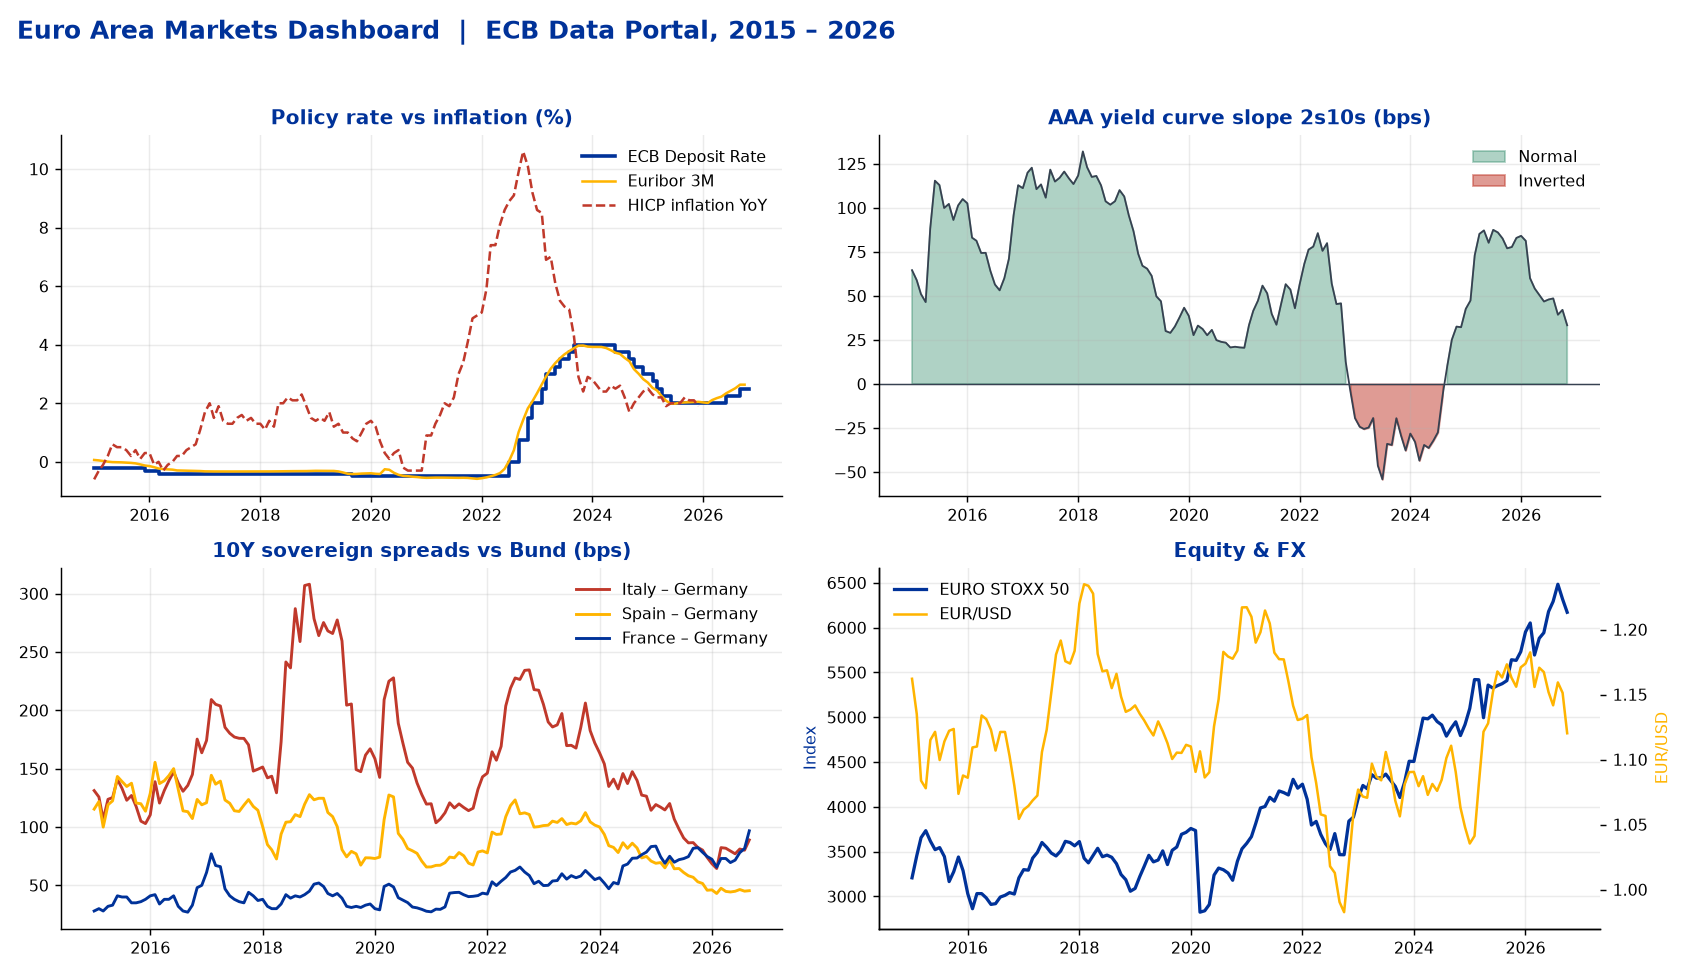
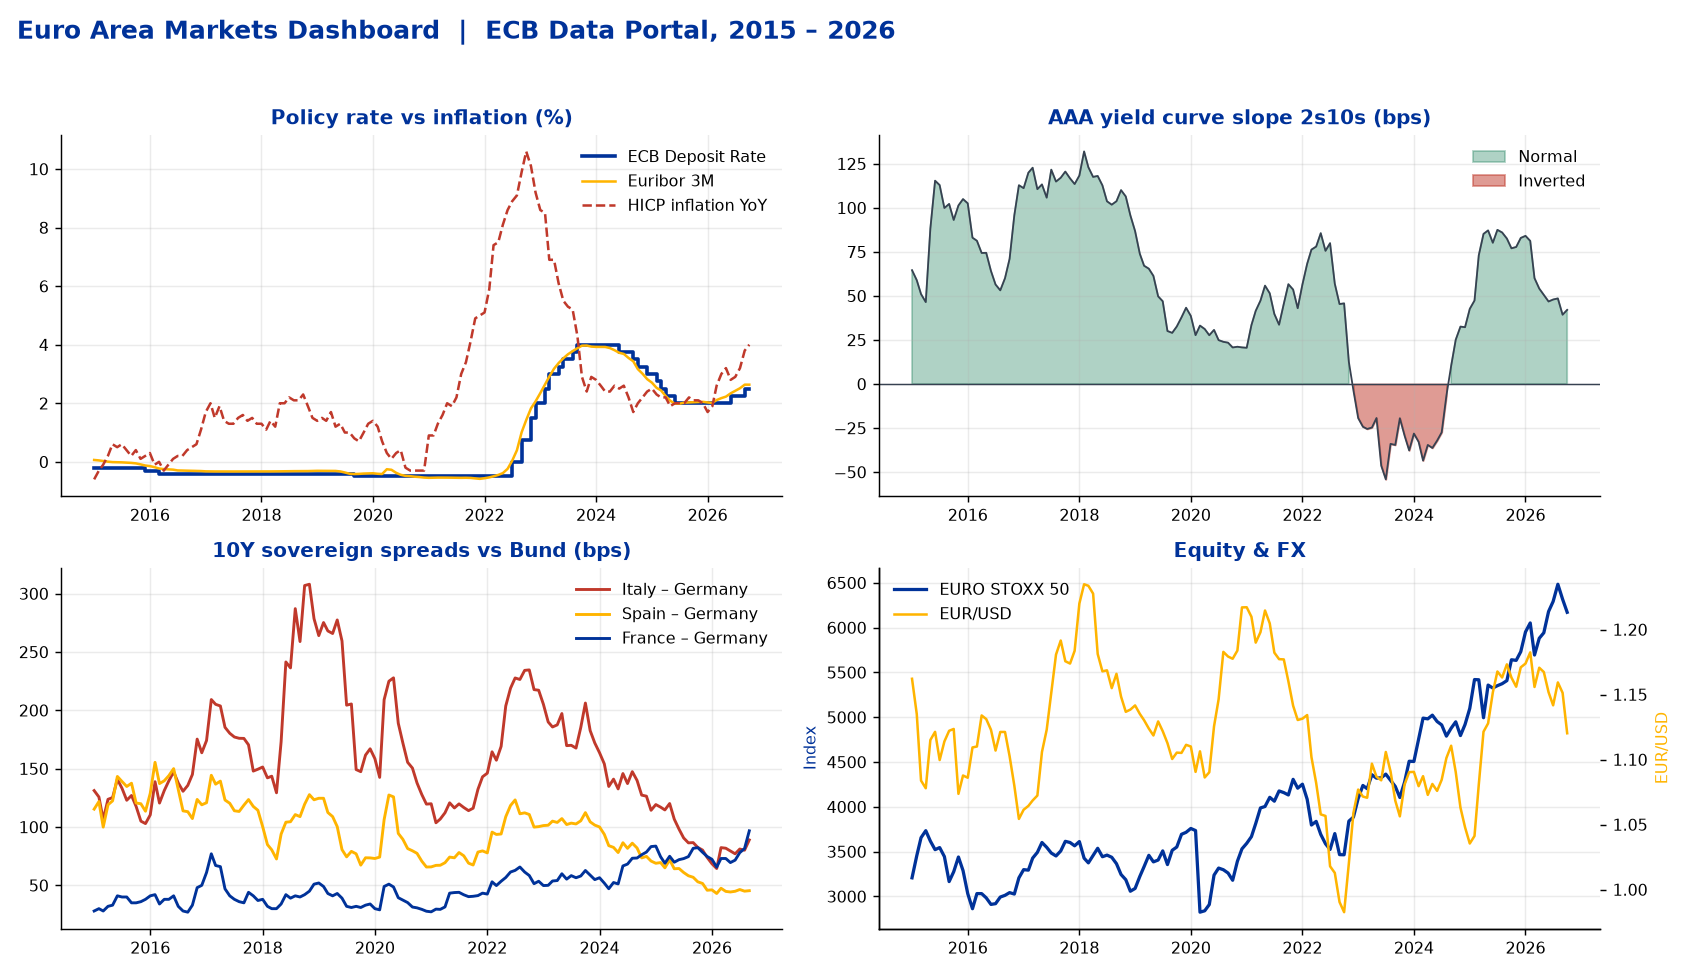
chore: monthly ECB data refresh

diff --git a/reports/2026-10.md b/reports/2026-10.md
@@ -1,0 +1,25 @@
+# ECB monthly report – Oct 2026
+
+**Policy stance:** On hold (deposit rate 2.50%)  
+**Curve:** Flat (2s10s 42 bps)
+
+| Series | Latest month | Value | Change vs prev. month |
+|---|---|---|---|
+| ECB deposit rate | Oct 2026 | 2.50 % | 0.00 % |
+| €STR | Oct 2026 | 2.44 % | +0.13 % |
+| Euribor 3M | Oct 2026 | 2.63 % | -0.00 % |
+| HICP inflation (YoY) | Oct 2026 | 4.0 % | +0.2 % |
+| Real deposit rate | Oct 2026 | -1.50 % | -0.20 % |
+| Bund 10Y | Sep 2026 ⚠ | 3.47 % | +0.29 % |
+| 2s10s slope | Oct 2026 | 42 bps | +3 bps |
+| BTP-Bund | Sep 2026 ⚠ | 89 bps | +9 bps |
+| OAT-Bund | Sep 2026 ⚠ | 97 bps | +15 bps |
+| Bono-Bund | Sep 2026 ⚠ | 45 bps | +0 bps |
+| EUR/USD | Oct 2026 | 1.1202 | -0.0311 |
+| EUR/INR | Oct 2026 | 107.01 | -2.90 |
+| EURO STOXX 50 | Oct 2026 | 6,171 | -146 |
+
+## Data quality
+- ✅ All checks passed – every series is up to date.
+
+_Auto-generated by GitHub Actions after the monthly ECB refresh._
